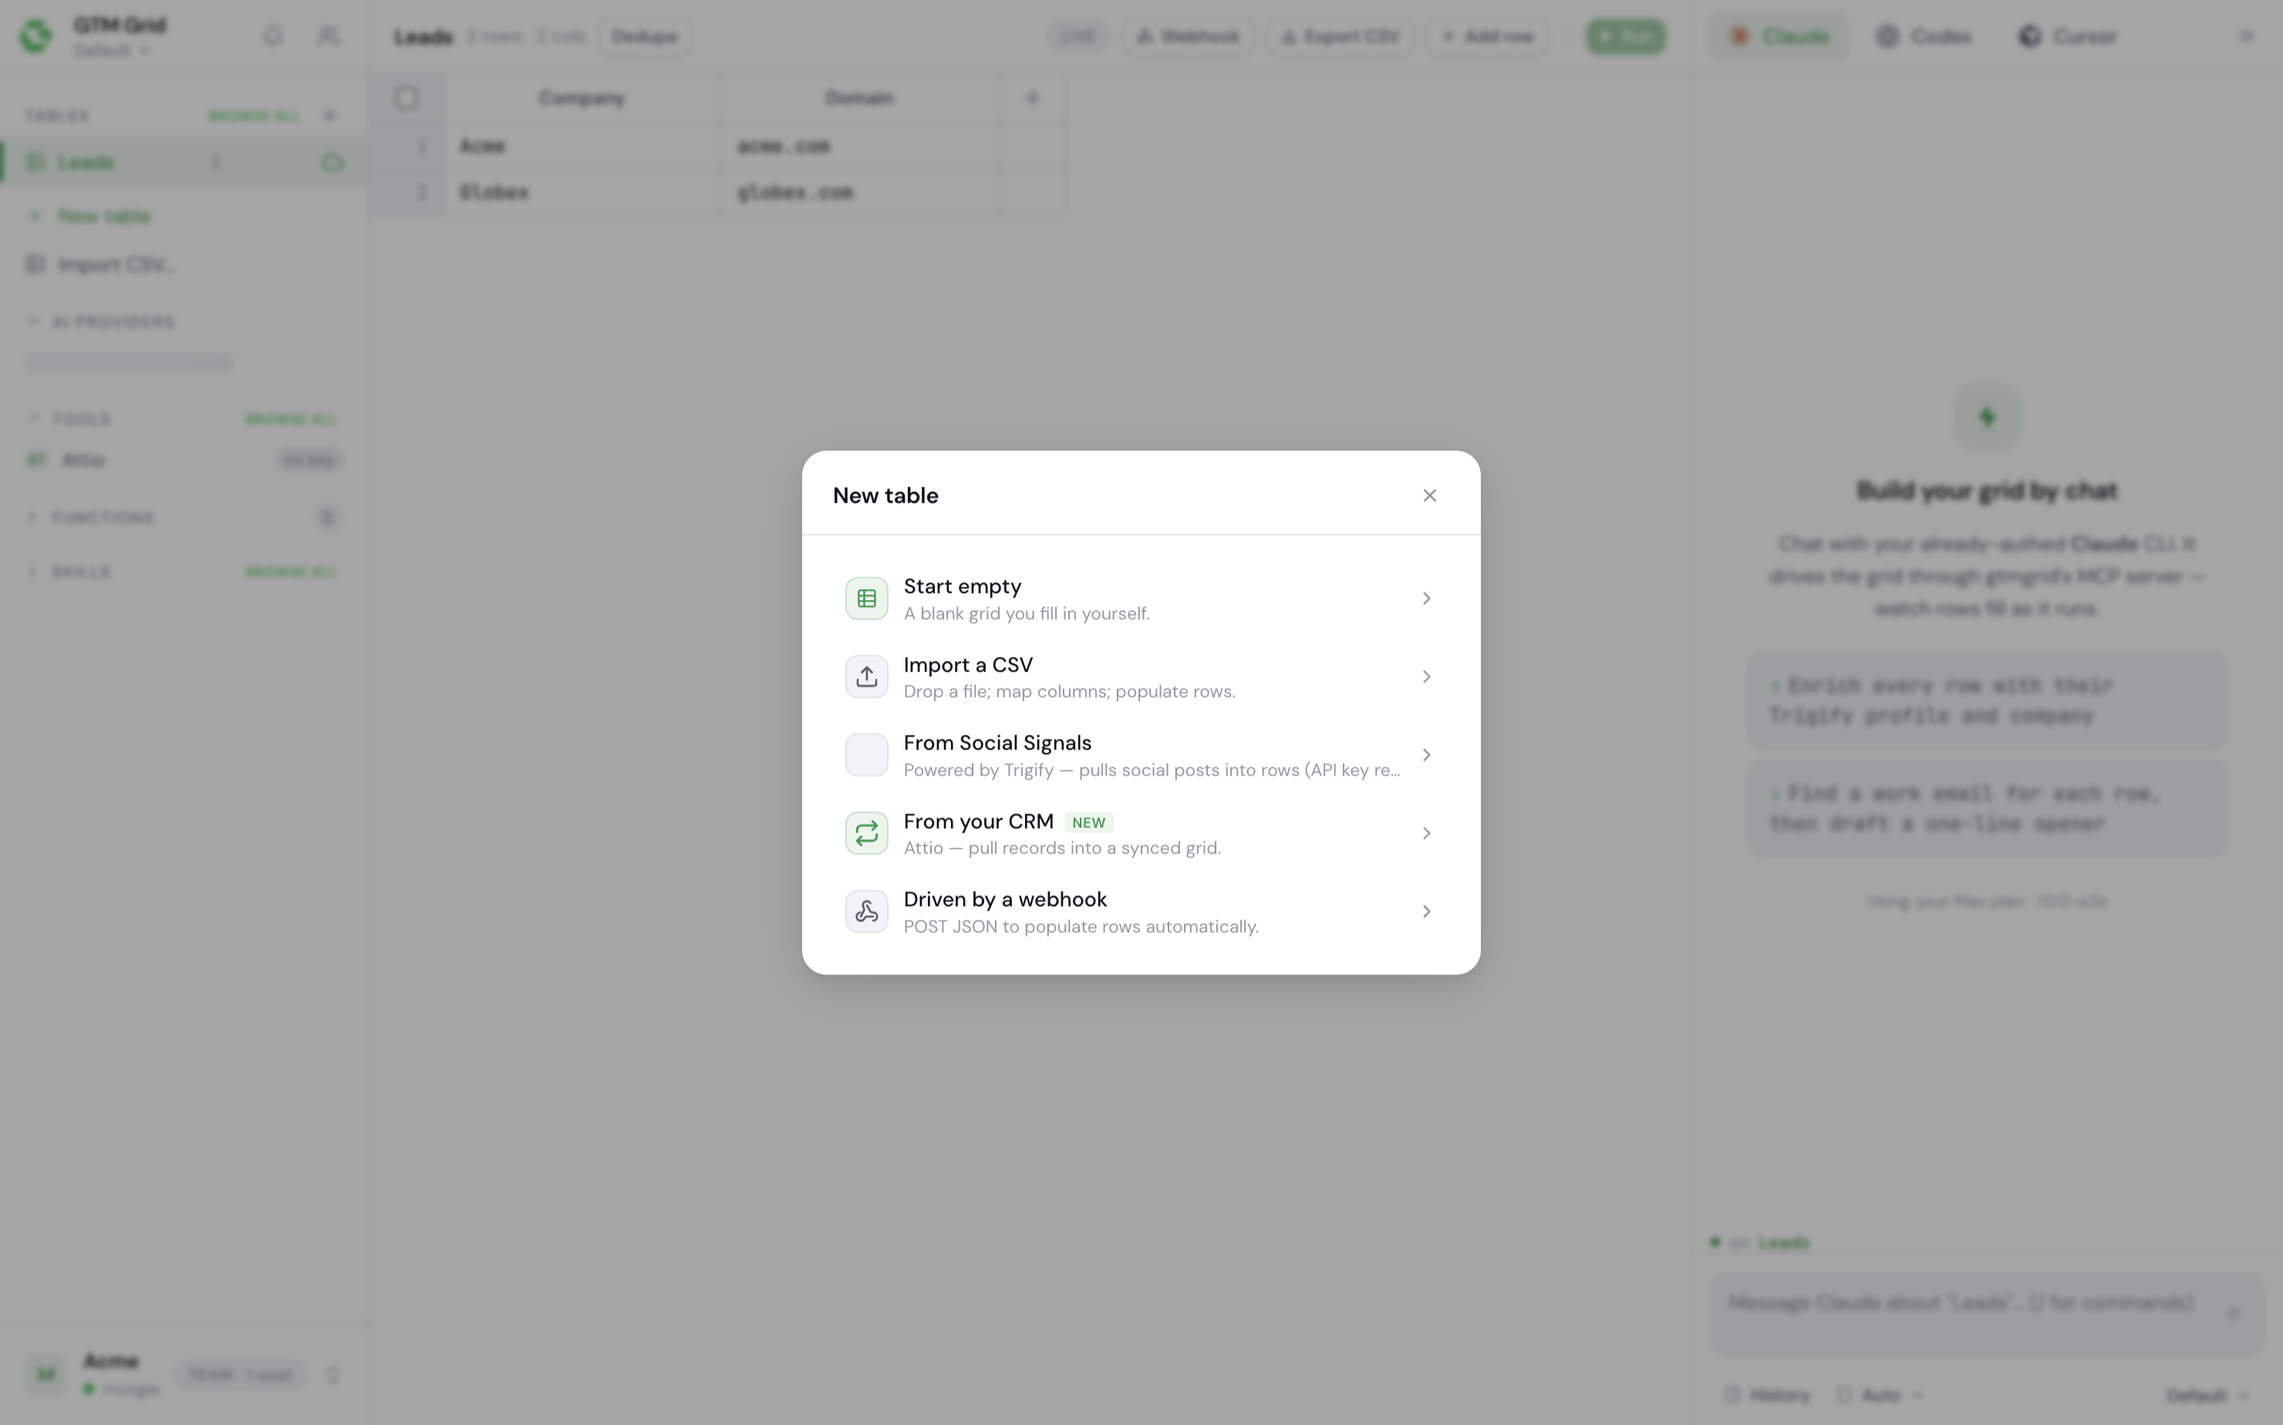
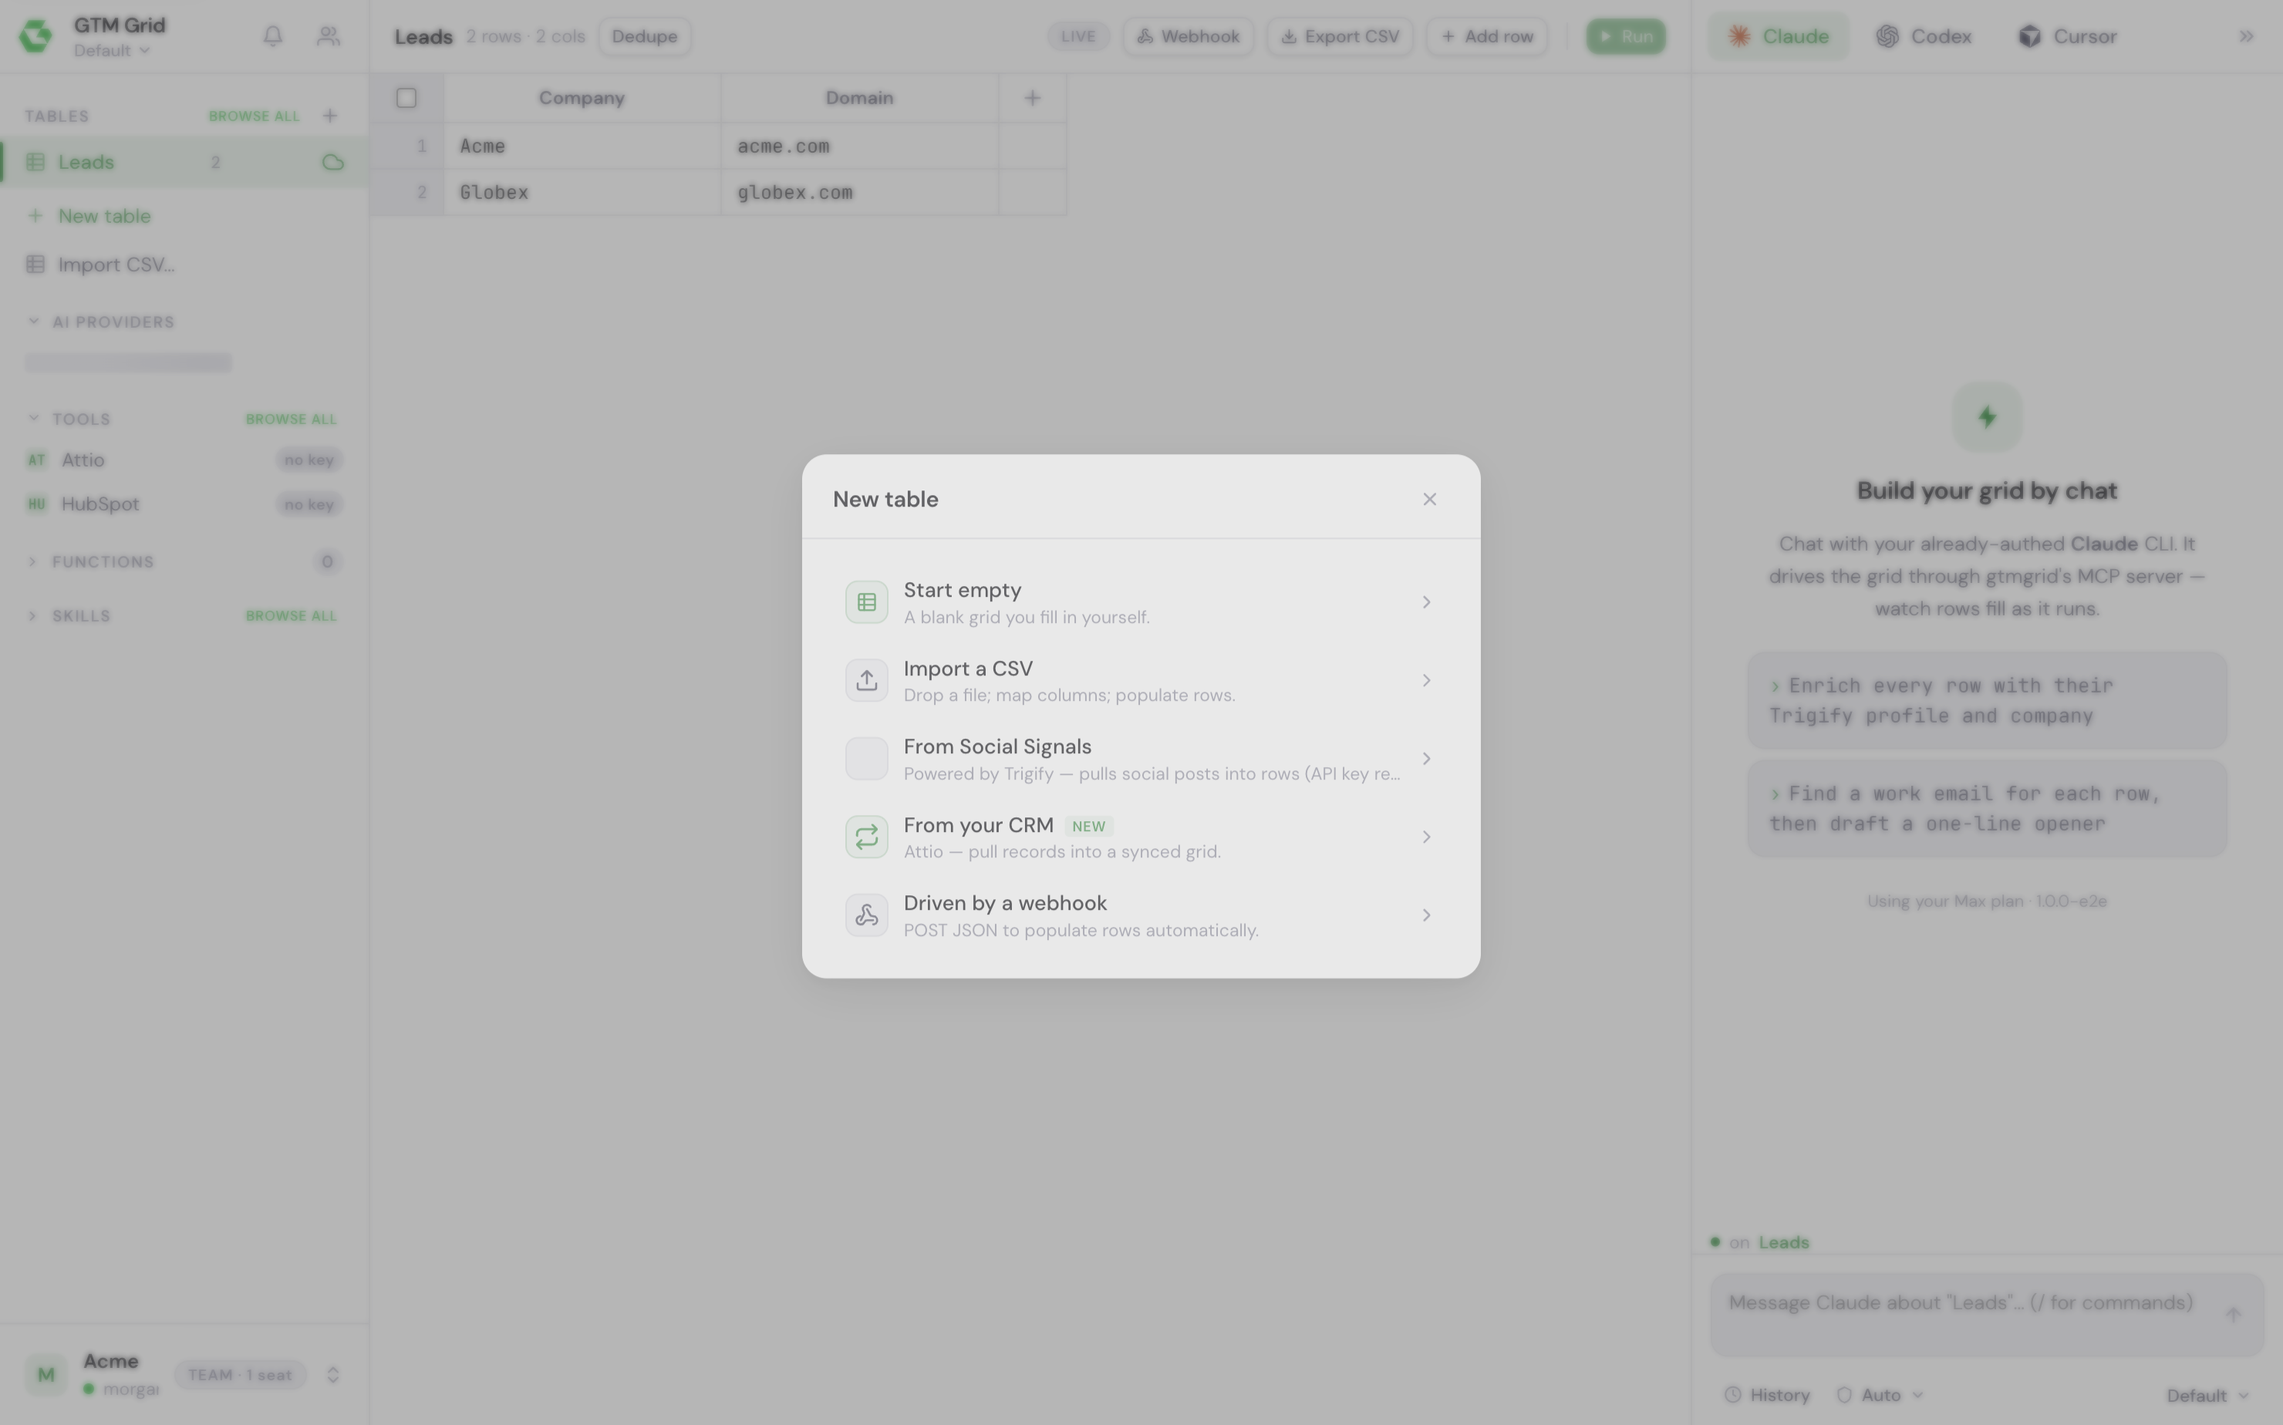
feat(crm-sync): HubSpot e2e coverage, provider-aware mock, docs page + changeset
- mock: crm.* handlers read provider (attio default); hubspotConnected state
  flag; hubspot extension seeded for the Tools panel; provider-scoped
  disconnect
- specs: step-1 shows both CRMs connectable (Coming soon flipped); HubSpot
  consent panel, wizard→Start sync→'Synced from HubSpot' strip, Tools card +
  provider-scoped disconnect (13 crm specs, 58 e2e total)
- wizard: pick→configure hop passes the picked provider explicitly (the
  setState closure was stale — first live-found via the e2e)
- /docs/hubspot page; minor changeset

diff --git a/apps/web/app/docs/hubspot/page.tsx b/apps/web/app/docs/hubspot/page.tsx
@@ -1,0 +1,151 @@
+import type { Metadata } from "next";
+import Link from "next/link";
+
+export const metadata: Metadata = {
+  title: "HubSpot integration — GTM Grid docs",
+  description:
+    "Pull HubSpot Contacts, Companies, or any list into a live GTM Grid table — read-only, synced daily, with AI enrichment layered on top.",
+};
+
+// Static docs page (no data fetches). Linked from the marketing footer and
+// support replies — written for a non-technical operator, mirroring the
+// in-app wizard's language (and the Attio docs page's structure).
+export default function HubspotDocsPage() {
+  return (
+    <main className="container prose">
+      <Link className="wordmark prose__home" href="/">
+        {/* eslint-disable-next-line @next/next/no-img-element */}
+        <img className="wordmark__mark" src="/brand/icon.png" alt="" width={16} height={16} aria-hidden="true" />
+        GTM Grid
+      </Link>
+
+      <header className="prose__head">
+        <span className="eyebrow">docs · integrations</span>
+        <h1>HubSpot integration</h1>
+        <p className="prose__lede">
+          Pull your HubSpot Contacts, Companies — or any saved list — into a live GTM Grid
+          table, then enrich every row with AI. Read-only by design: GTM Grid never writes to
+          your CRM.
+        </p>
+      </header>
+
+      <h2>What it does</h2>
+      <p>
+        A synced table mirrors a HubSpot source into your grid. Records pull in as rows, the
+        properties you choose become columns, and the table refreshes automatically every day
+        (plus a manual <strong>Sync now</strong> whenever you want it). Everything you build on
+        top — AI enrichment columns, research columns, notes — belongs to the grid and survives
+        every re-sync.
+      </p>
+
+      <h2>Connecting HubSpot</h2>
+      <ol>
+        <li>In GTM Grid, open <strong>New table → From your CRM</strong> and pick HubSpot.</li>
+        <li>
+          Your browser opens HubSpot&rsquo;s consent screen. GTM Grid requests{" "}
+          <strong>read-only</strong> access: contacts, companies, lists, and owners (so
+          &ldquo;Owner&rdquo; columns can show names). No write or delete permissions are ever
+          requested.
+        </li>
+        <li>Approve, and you&rsquo;re bounced straight back into the app.</li>
+      </ol>
+      <p>
+        The connection is <strong>workspace-wide</strong>: one teammate connects once, and
+        everyone in your GTM Grid workspace can create synced tables from it. The person
+        connecting needs permission to install apps in your HubSpot account.
+      </p>
+
+      <h2>Creating a synced table</h2>
+      <ul>
+        <li>
+          <strong>Choose a source</strong> — Contacts, Companies, or any active or static list.
+          Lists are ideal for narrowing big objects to the records that matter.
+        </li>
+        <li>
+          <strong>Map properties to columns</strong> — recommended properties are pre-selected,
+          with live sample values so you can see exactly what each column will hold.
+        </li>
+        <li>
+          <strong>Add filters</strong> (optional) — six operators (is, is not, contains, is
+          known, is unknown, after) so only matching records sync.
+        </li>
+        <li>
+          <strong>Pick duplicate handling</strong>:
+          <ul>
+            <li>
+              <em>Update existing</em> — match records to rows on a key (like email or domain)
+              and refresh changed fields. This is the default and what most teams want.
+            </li>
+            <li><em>Skip existing</em> — only add records the grid hasn&rsquo;t seen.</li>
+            <li>
+              <em>Always create</em> — import every record as a new row. These tables sync on
+              demand only (a daily re-import would duplicate your data).
+            </li>
+          </ul>
+        </li>
+      </ul>
+
+      <h2>How syncing behaves</h2>
+      <ul>
+        <li>Synced tables refresh <strong>daily at 09:00 UTC</strong>, plus manual Sync now.</li>
+        <li>
+          Columns synced from HubSpot are <strong>read-only</strong> in the grid — they always
+          reflect your CRM. Columns you add are fully editable and enrichable.
+        </li>
+        <li>
+          Records deleted in HubSpot (or that stop matching your filters) are{" "}
+          <strong>never deleted</strong> from the grid — their rows are flagged as no longer in
+          HubSpot, and all your enrichment work is preserved.
+        </li>
+        <li>
+          Each table has a <strong>sync log</strong> showing what every run did — records
+          added, updated, skipped, or flagged — in plain English, with one-click retry.
+        </li>
+        <li>
+          Synced tables hold up to <strong>10,000 records</strong> on the Team plan and{" "}
+          <strong>50,000</strong> on larger plans. Use lists or filters to narrow bigger
+          objects.
+        </li>
+      </ul>
+
+      <h2>Security &amp; data</h2>
+      <ul>
+        <li>
+          The connection is <strong>strictly read-only</strong> — GTM Grid cannot write to,
+          update, or delete anything in HubSpot.
+        </li>
+        <li>
+          Access tokens are encrypted at rest and scoped to your workspace. HubSpot access
+          tokens are short-lived and refreshed automatically; disconnecting (from
+          HubSpot&rsquo;s connected apps settings, or from Tools → HubSpot in GTM Grid) stops
+          all syncing immediately.
+        </li>
+        <li>Synced data lives in your GTM Grid workspace and is never shared across tenants.</li>
+      </ul>
+
+      <h2>Troubleshooting</h2>
+      <ul>
+        <li>
+          <strong>&ldquo;Reconnect HubSpot to resume syncing&rdquo;</strong> — the connection
+          was revoked or expired. Click Reconnect on the table&rsquo;s banner and re-approve;
+          syncing resumes automatically.
+        </li>
+        <li>
+          <strong>&ldquo;N fields could not be mapped&rdquo;</strong> — a property was deleted
+          or renamed in HubSpot. Everything else keeps syncing; recreate the sync to pick up
+          the new schema.
+        </li>
+        <li>
+          <strong>A source no longer exists</strong> — if a list is deleted in HubSpot, the
+          table pauses with a clear message. Your rows stay; pick a new source or remove the
+          sync.
+        </li>
+      </ul>
+
+      <p className="prose__foot">
+        Questions? Email <a href="mailto:morgan@trigify.io">morgan@trigify.io</a> — we read
+        everything.
+      </p>
+    </main>
+  );
+}

diff --git a/packages/desktop/e2e/crm.spec.ts b/packages/desktop/e2e/crm.spec.ts
@@ -25,7 +25,7 @@ async function openConfigureStep(window: import("@playwright/test").Page): Promi
 }
 
 test.describe("CRM sync — wizard", () => {
-  test("the chooser offers 'From your CRM' and step 1 shows Attio + HubSpot (coming soon)", async ({ launchApp }) => {
+  test("the chooser offers 'From your CRM' and step 1 shows Attio + HubSpot, both connectable", async ({ launchApp }) => {
     const { window } = await launchApp(CONNECTED);
     await openChooser(window);
 
@@ -34,9 +34,10 @@ test.describe("CRM sync — wizard", () => {
 
     await expect(window.locator(".crmw-modal")).toBeVisible();
     await expect(window.locator(".crmw-crm-card", { hasText: "Attio" }).first()).toBeVisible();
-    const hubspot = window.locator(".crmw-crm-disabled", { hasText: "HubSpot" });
+    const hubspot = window.locator(".crmw-crm-card", { hasText: "HubSpot" });
     await expect(hubspot).toBeVisible();
-    await expect(hubspot.getByText("Coming soon")).toBeVisible();
+    await expect(hubspot).toBeEnabled();
+    await expect(window.locator(".crmw-crm-disabled")).toHaveCount(0);
     // The read-only reassurance from the design.
     await expect(window.getByText(/never writes back to your CRM/i)).toBeVisible();
   });
@@ -217,6 +218,63 @@ test.describe("CRM sync — status strip & synced grid", () => {
     const banner = window.locator(".crm-strip-banner");
     await expect(banner).toContainText(lapsedCopy);
     await expect(banner.getByRole("button", { name: "View plans" })).toBeVisible();
+  });
+});
+
+
+test.describe("CRM sync — HubSpot provider", () => {
+  test("without a connection, picking HubSpot shows the HubSpot consent panel", async ({ launchApp }) => {
+    const { window } = await launchApp({ signedIn: true, paid: true, hubspotConnected: false });
+    await openChooser(window);
+    await window.getByText("From your CRM").click();
+    await window.locator(".crmw-crm-card", { hasText: "HubSpot" }).click();
+
+    await expect(window.getByText("Connect your HubSpot account")).toBeVisible();
+    await expect(window.getByText(/Read contacts, companies & lists/i)).toBeVisible();
+    await expect(window.getByRole("button", { name: /Connect with HubSpot/i })).toBeVisible();
+  });
+
+  test("connected: HubSpot wizard → Start sync lands on a grid with 'Synced from HubSpot'", async ({ launchApp }) => {
+    const { window } = await launchApp({ signedIn: true, paid: true, hubspotConnected: true });
+    await openChooser(window);
+    await window.getByText("From your CRM").click();
+    await window.locator(".crmw-crm-card", { hasText: "HubSpot" }).click();
+
+    // Connected workspace skips straight to Configure with HubSpot sources.
+    await expect(window.locator(".crmw-source-grid")).toBeVisible();
+    await expect(window.getByText(/acme\.hubspot\.com/).first()).toBeVisible();
+    await window.locator(".crmw-source", { hasText: "Contacts" }).click();
+    await expect(window.locator(".crmw-field", { hasText: "Email" })).toBeVisible();
+    await window.getByRole("button", { name: "Start sync" }).click();
+
+    await expect(window.locator(".crm-strip")).toBeVisible({ timeout: 10_000 });
+    await expect(window.locator(".crm-strip-title")).toContainText("Synced from HubSpot");
+    await expect.poll(async () => (await mockState()).crmBindings[0]?.provider).toBe("hubspot");
+    // A HubSpot connection alone must NOT satisfy the Attio path.
+    expect((await mockState()).crmConnected).toBe(false);
+  });
+
+  test("Tools → HubSpot shows the OAuth card and disconnect pauses only hubspot bindings", async ({ launchApp }) => {
+    const { window } = await launchApp({
+      ...{ signedIn: true, paid: true, hubspotConnected: true },
+      crmBindings: [
+        seededBinding({ id: "crmb_hs", provider: "hubspot", sourceLabel: "Contacts" }),
+        seededBinding({ id: "crmb_at", tableId: "tbl_1", provider: "attio" }),
+      ],
+    });
+    await expect(window.locator(".sidebar")).toBeVisible({ timeout: 20_000 });
+    await window.locator(".ext-item-name", { hasText: /^HubSpot$/ }).first().click();
+    const card = window.locator(".crm-oauth-card");
+    await expect(card).toBeVisible({ timeout: 15_000 });
+    await expect(card).toContainText("Connected · acme.hubspot.com");
+    await card.getByRole("button", { name: "Disconnect" }).click();
+    await card.getByRole("button", { name: "Confirm disconnect" }).click();
+
+    await expect(card).toContainText("Not connected", { timeout: 10_000 });
+    await expect.poll(async () => (await mockState()).hubspotConnected).toBe(false);
+    const bindings = (await mockState()).crmBindings;
+    expect(bindings.find((b: { id: string }) => b.id === "crmb_hs")?.pausedReason).toBe("auth_revoked");
+    expect(bindings.find((b: { id: string }) => b.id === "crmb_at")?.pausedReason).toBeNull();
   });
 });
 

diff --git a/packages/desktop/src/cloud/CrmSyncWizard.tsx b/packages/desktop/src/cloud/CrmSyncWizard.tsx
@@ -202,8 +202,10 @@ export function CrmSyncWizard({
   }, [workspaceId]);
 
   // ── Load a source's fields + suggested match key, seed the recommended set.
+  // `p` is passed explicitly on the pick→configure hop (setProvider hasn't
+  // re-rendered yet, so the state in this closure would be stale).
   const loadSource = useCallback(
-    async (src: CrmSource) => {
+    async (src: CrmSource, p: CrmProviderId = provider) => {
       setSelected(src);
       setLoadingSource(true);
       setError(null);
@@ -212,7 +214,7 @@ export function CrmSyncWizard({
       try {
         const r = await apiClient.crm.describeSource.query({
           workspaceId,
-          provider,
+          provider: p,
           kind: src.kind,
           id: src.id,
           label: src.label,
@@ -234,16 +236,16 @@ export function CrmSyncWizard({
   );
 
   // ── Enter the Configure step: fetch sources, auto-select the first object.
-  const enterConfigure = useCallback(async () => {
+  const enterConfigure = useCallback(async (p: CrmProviderId = provider) => {
     setStep("configure");
     setError(null);
     try {
-      const list = (await apiClient.crm.listSources.query({ workspaceId, provider })) as CrmSource[];
+      const list = (await apiClient.crm.listSources.query({ workspaceId, provider: p })) as CrmSource[];
       setSources(list);
       const firstObject = list.find((s) => s.kind === "object") ?? list[0];
       if (firstObject) {
         setSourceTab(firstObject.kind);
-        await loadSource(firstObject);
+        await loadSource(firstObject, p);
       }
     } catch (e) {
       setError(e instanceof Error ? e.message : "Could not load your CRM sources.");
@@ -254,7 +256,7 @@ export function CrmSyncWizard({
   const pickProvider = useCallback(async (p: CrmProviderId) => {
     setProvider(p);
     const connected = await refetchConnection(p);
-    if (connected) void enterConfigure();
+    if (connected) void enterConfigure(p);
     else setStep("connect");
   }, [refetchConnection, enterConfigure]);
 

diff --git a/.changeset/crm-sync-hubspot.md b/.changeset/crm-sync-hubspot.md
@@ -1,0 +1,5 @@
+---
+"@gtmgrid/desktop": minor
+---
+
+HubSpot CRM sync: connect HubSpot alongside Attio and pull Contacts, Companies, or any list into a live synced table — same read-only OAuth flow, daily refresh + Sync now, filters, dedupe modes, and plan caps as Attio. The wizard's HubSpot card is now active, the table strip and Tools panel show the right CRM everywhere, and both connections can coexist in one workspace. Under the hood the sync engine is now provider-neutral (one engine, per-CRM clients) with proactive token refresh for HubSpot's short-lived tokens.
